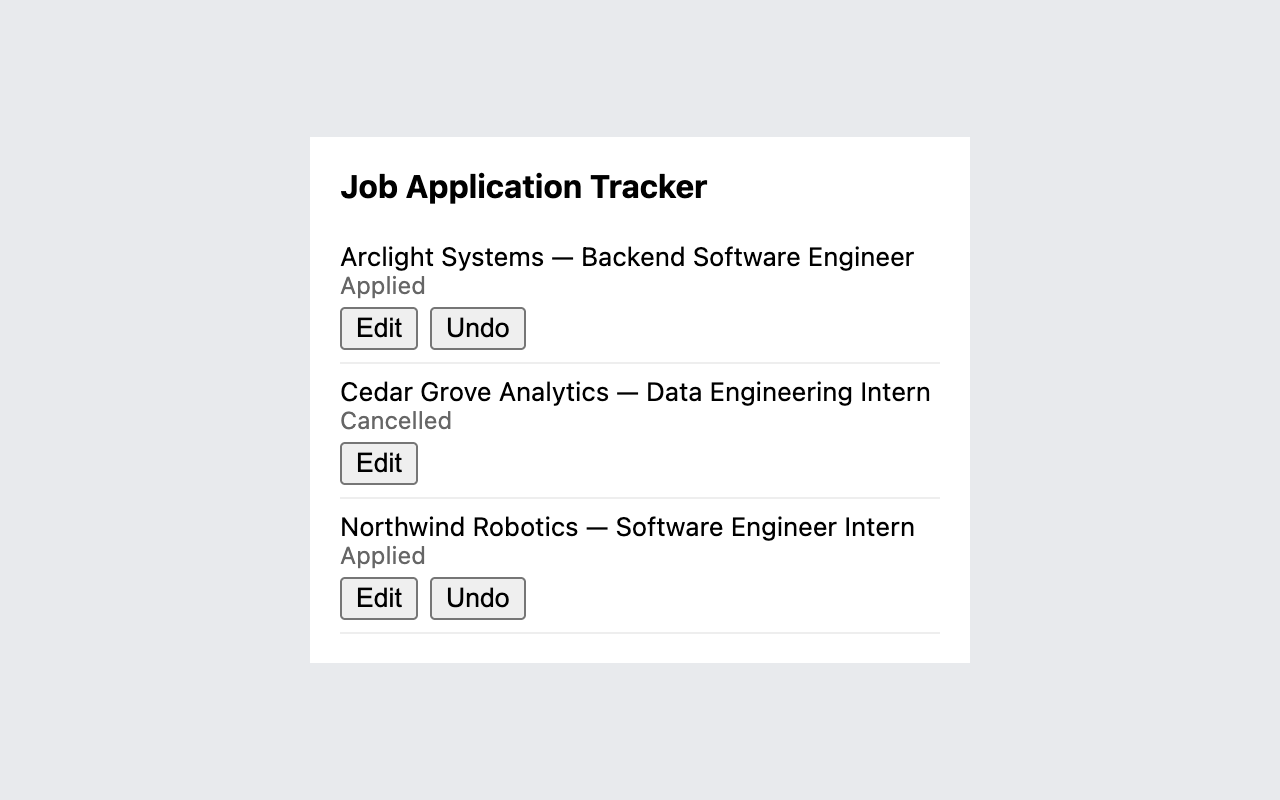
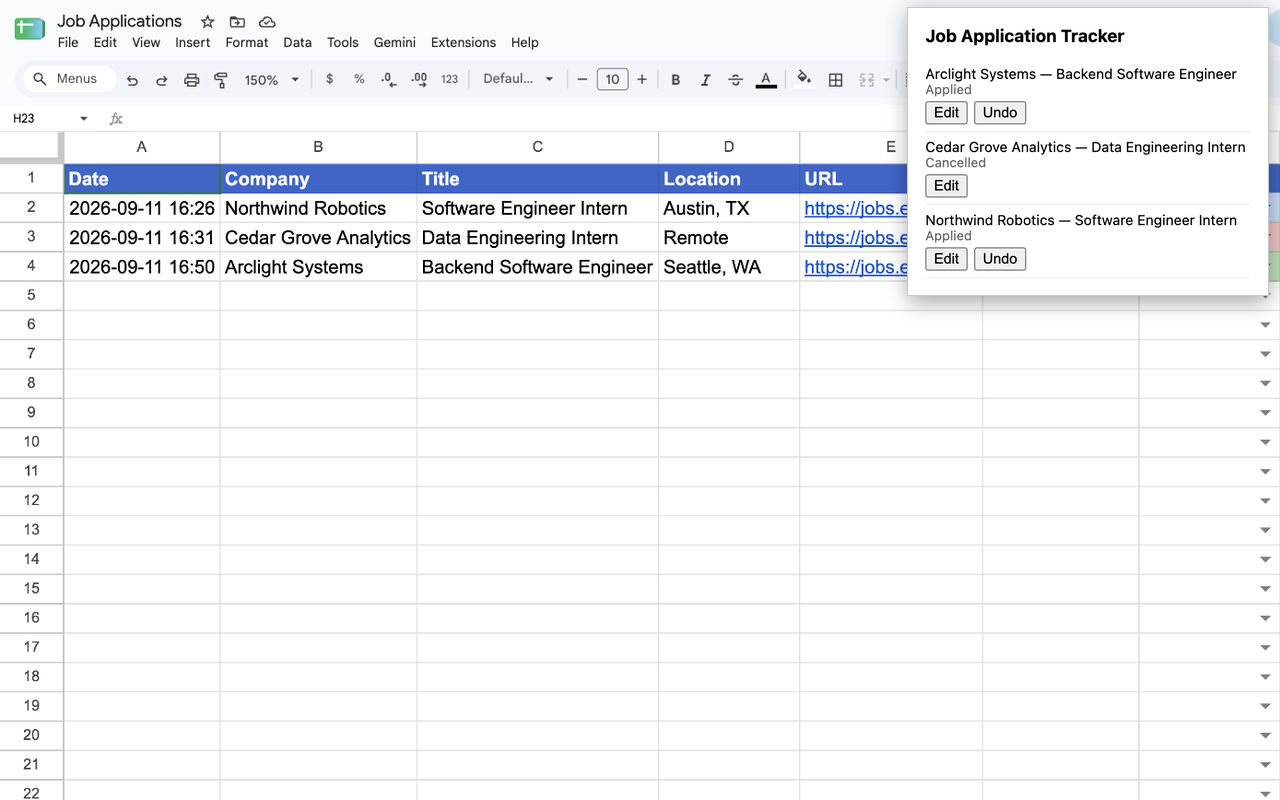
Store screenshots: full-bleed popup-over-sheet, drop the options shot
Chrome requires full-bleed screenshots (no padding). 1-popup.png is now
the popup's recent list over the auto-created sheet at true scale: a
composite of two unedited captures (the popup cropped to its card, with
a drop shadow, over 3-spreadsheet.png). The padded 2-options.png is
removed. listing.md's screenshot list matches, and says how screenshot
1 was built.

Claude-Session: https://claude.ai/code/session_01Lh52276jnZQhPEP6mERzFZ

diff --git a/store-assets/listing.md b/store-assets/listing.md
@@ -27,16 +27,23 @@ From the extension's popup you can edit the resume version of, or undo, any of y
 Privacy: the extension only reads job-posting pages on the specific sites it supports — it never has access to other tabs or browsing activity. It only ever talks to Google's or Microsoft's own APIs to write your spreadsheet; there is no other server, no analytics, and no third-party data sharing. OAuth access is scoped to files the extension itself creates (Google drive.file) or its own app folder (Microsoft Files.ReadWrite.AppFolder) — it cannot see your other files. Full privacy policy: https://rynjung1.github.io/job-app-tracker/privacy.html
 ```
 
-## Screenshots (1280×800, 24-bit PNG, no alpha)
+## Screenshots (1280×800, 24-bit PNG, no alpha, full bleed)
 
-All data shown is placeholder: fake companies and `jobs.example.com`
-URLs.
+Chrome requires full-bleed screenshots (square corners, no padding), so
+the earlier padded options screenshot was dropped. All data shown is
+placeholder: fake companies and `jobs.example.com` URLs. Upload in this
+order:
 
 1. `screenshots/1-popup.png`: the popup's recent-applications list with
-   Edit/Undo.
-2. `screenshots/2-options.png`: the options page, connected, with the
-   supported-sites line.
-3. `screenshots/3-spreadsheet.png`: the auto-created sheet, with the
+   Edit/Undo, open over the auto-created sheet. It's a composite of two
+   unedited product captures: the popup, cropped to its card, placed
+   top-right where it opens from the toolbar, with a drop shadow and a
+   1px border, over screenshot 3. Neither capture is retouched. The
+   popup shows Arclight and Northwind as Applied while the sheet shows
+   Offer and Interview. That's real behaviour: the popup only knows
+   statuses the extension set itself, and those two were changed in the
+   sheet by hand.
+2. `screenshots/3-spreadsheet.png`: the auto-created sheet, with the
    formatted header, real dates, and the Status dropdown and colours.
 
 ## Privacy practices tab
